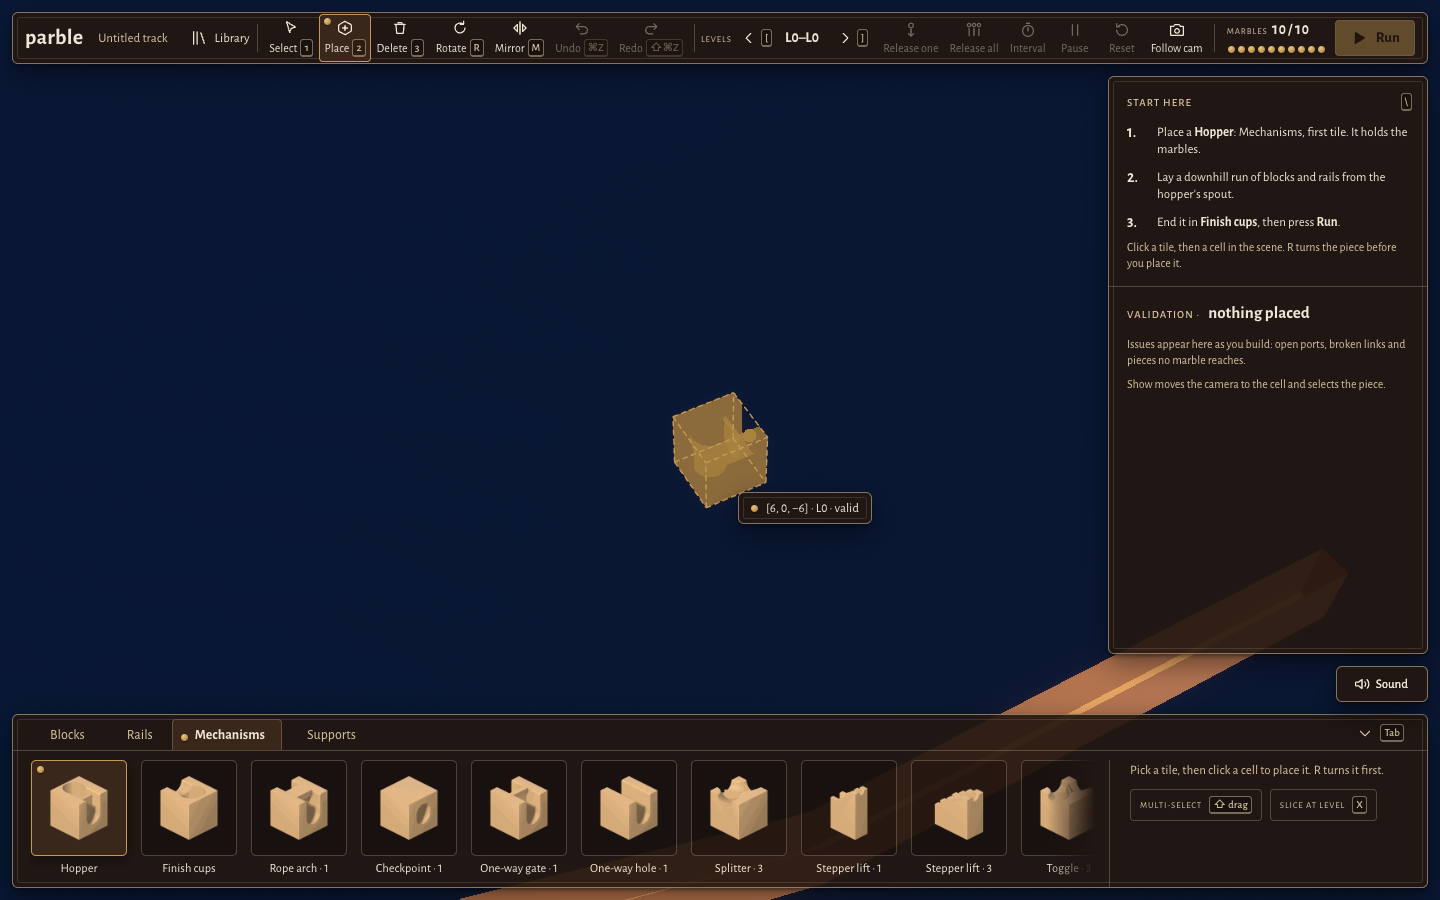
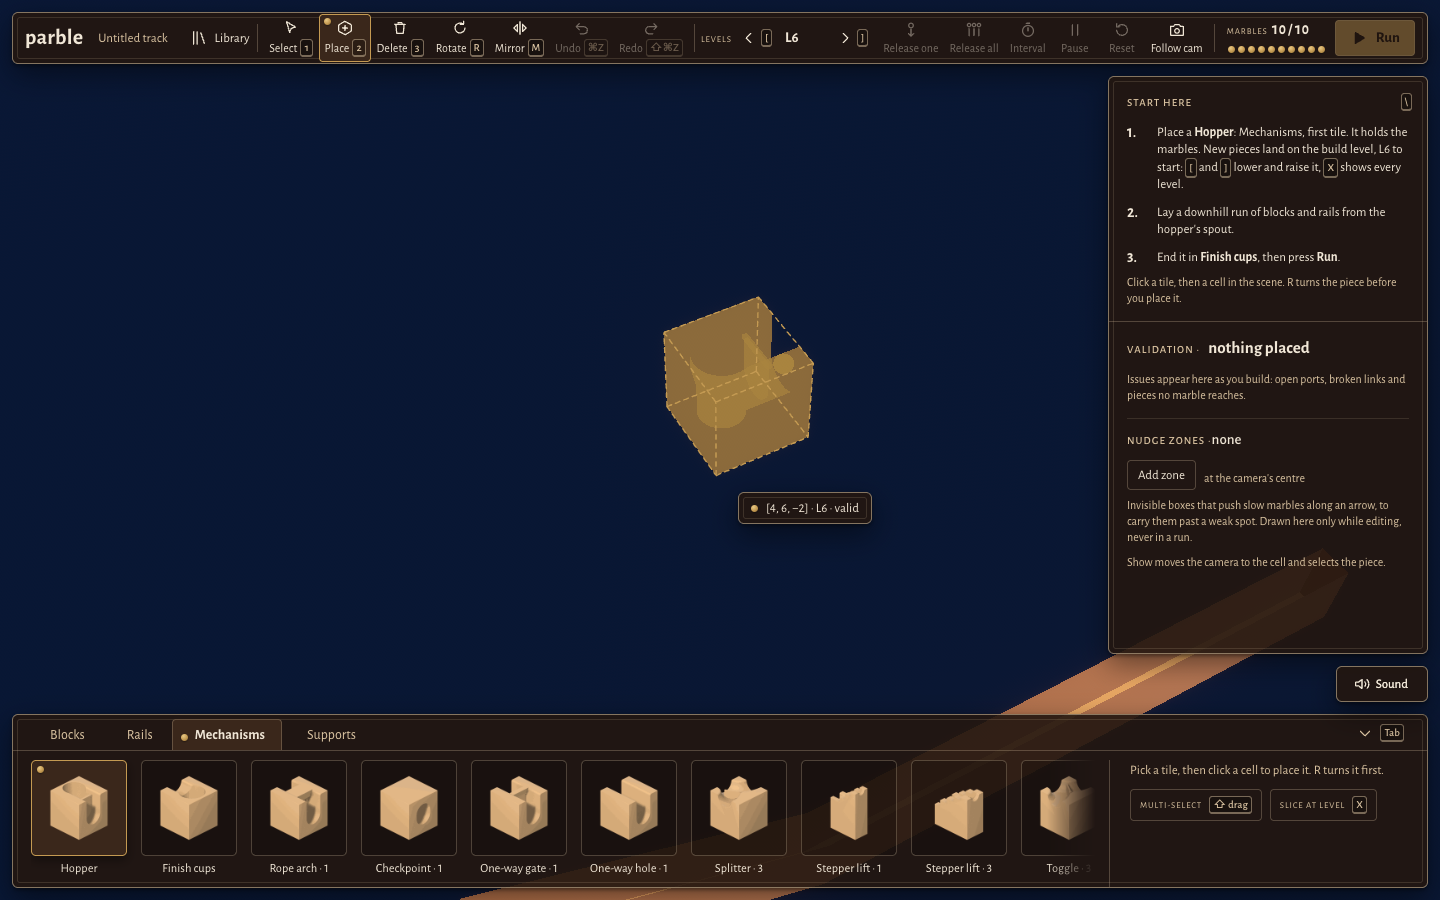
Editor: an empty board starts building at L6 so the hopper has levels to fall through (it started on L0 with no way down); ] raises the build level past the top piece, up to L15, and from all levels goes one above the top; Start here says so. Docs reword the Back-cache note (the Safari cause is infe

Changed region(s): [[0.7812, 0.1556, 0.9688, 0.4978], [0.4375, 0.3111, 0.5625, 0.56], [0.7812, 0.5289, 0.9688, 0.6533]]

diff --git a/web/ui/src/editor/model.ts b/web/ui/src/editor/model.ts
@@ -401,16 +401,23 @@ export function checkReleaseText(r: CheckRelease): string {
   return `${mode} · ${queue} · seed ${r.seed}`;
 }
 
-/** The stepper's value: "L0–L4" for all levels, "≤ L2" when sliced. */
+/** The highest level `]` reaches: the slice is also the ground plane new pieces land on. */
+export const BUILD_LEVEL_MAX = 15;
+/** An empty board starts building here, so the hopper has levels to fall through below it
+ *  (the showcase's hopper stands at L7). */
+export const START_LEVEL = 6;
+
+/** The stepper's value: "L0–L4" for all levels, "≤ L2" when sliced, "L6" above every piece. */
 export function levelLabel(slice: number | null, maxLevel: number): string {
-  return slice === null ? `L0–L${Math.max(maxLevel, 0)}` : `≤ L${slice}`;
+  if (slice === null) return `L0–L${Math.max(maxLevel, 0)}`;
+  return slice > maxLevel ? `L${slice}` : `≤ L${slice}`;
 }
 
 /** `[` one level down from all or the slice; never below 0. */
 export const sliceDown = (slice: number | null, maxLevel: number): number => Math.max((slice ?? maxLevel + 1) - 1, 0);
-/** `]` one level up; past the top shows all levels. */
-export const sliceUp = (slice: number | null, maxLevel: number): number | null =>
-  slice === null || slice + 1 > maxLevel ? null : slice + 1;
+/** `]` one level up, from all to one above the top piece, at most [`BUILD_LEVEL_MAX`]. X shows all. */
+export const sliceUp = (slice: number | null, maxLevel: number): number =>
+  Math.min(slice === null ? Math.max(maxLevel, -1) + 1 : slice + 1, BUILD_LEVEL_MAX);
 
 /** Ports as "In N · Out E, W". */
 export function portsText(ports: { face: Face; flow: string }[]): string {

diff --git a/web/ui/src/editor/overlay.ts b/web/ui/src/editor/overlay.ts
@@ -51,6 +51,7 @@ import {
   type Send,
   sliceDown,
   sliceUp,
+  START_LEVEL,
   strokeText,
   TICK_HZ,
   type Vec3i,
@@ -944,7 +945,7 @@ ${nzRow("Push", [
     }
     if (s.pieces === 0 && !deletedNote) {
       selSec.innerHTML = `<h2><span class="sc">Start here</span></h2>
-<ol class="steps"><li${s.hoppers ? ' class="done"' : ""}><span>Place a <b>Hopper</b>: Mechanisms, first tile. It holds the marbles.</span></li>
+<ol class="steps"><li${s.hoppers ? ' class="done"' : ""}><span>Place a <b>Hopper</b>: Mechanisms, first tile. It holds the marbles. New pieces land on the build level, L${START_LEVEL} to start: <kbd>[</kbd> and <kbd>]</kbd> lower and raise it, <kbd>X</kbd> shows every level.</span></li>
 <li><span>Lay a downhill run of blocks and rails from the hopper's spout.</span></li>
 <li${s.finishes ? ' class="done"' : ""}><span>End it in <b>Finish cups</b>, then press <b>Run</b>.</span></li></ol>
 <p class="note">Click a tile, then a cell in the scene. R turns the piece before you place it.</p>`;
@@ -1320,6 +1321,7 @@ ${groupActs}
       if (next.pieces === 0) {
         family = "mechanisms";
         pick("mech_hopper");
+        act({ op: "slice", level: START_LEVEL });
       } else family = familyOf(next.brush.piece);
     }
     stepFly();

diff --git a/web/ui/test/editor-logic.test.ts b/web/ui/test/editor-logic.test.ts
@@ -30,6 +30,7 @@ import {
   runTime,
   sliceDown,
   sliceUp,
+  BUILD_LEVEL_MAX,
   strokeText,
   zoneOf,
 } from "../src/editor/model";
@@ -88,8 +89,12 @@ describe("editor model", () => {
     expect(sliceDown(null, 4)).toBe(4);
     expect(sliceDown(0, 4)).toBe(0);
     expect(sliceUp(3, 4)).toBe(4);
-    expect(sliceUp(4, 4)).toBeNull();
-    expect(sliceUp(null, 4)).toBeNull();
+    // Past the top piece `]` keeps raising the build level, from all to one above the top.
+    expect(sliceUp(4, 4)).toBe(5);
+    expect(sliceUp(null, 4)).toBe(5);
+    expect(sliceUp(null, 0)).toBe(1);
+    expect(sliceUp(BUILD_LEVEL_MAX, 4)).toBe(BUILD_LEVEL_MAX);
+    expect(levelLabel(6, 0)).toBe("L6");
   });
 
   it("formats ports, families, the ghost tip and run time", () => {

diff --git a/crates/parble-app/src/editor.rs b/crates/parble-app/src/editor.rs
@@ -58,6 +58,9 @@ pub use nudge::NudgeDiag;
 
 /// Largest `fill` (and `--editor-fill`).
 pub const MAX_FILL: u32 = 4_000;
+/// The highest level `]` slices to. The slice is also the ground plane new pieces land on, so
+/// past the top piece `]` raises the build level (web: `BUILD_LEVEL_MAX` in `web/ui/src/editor/model.ts`).
+pub const BUILD_LEVEL_MAX: i32 = 15;
 /// Collider rebuild time per frame. A rebuild stage that starts inside it always finishes, so a
 /// frame's rebuild is at most this plus one stage (gather, simplify, tag or install of one chunk).
 pub const COLLIDER_BUDGET_MS: f32 = 4.0;
@@ -2395,7 +2398,11 @@ fn key_actions(st: &EditState, k: &ButtonInput<KeyCode>, shift: bool) -> Vec<Act
                 level: Some((st.slice.unwrap_or(max_level + 1) - 1).max(0)),
             }),
             KeyCode::BracketRight => out.push(Action::Slice {
-                level: st.slice.map(|s| s + 1).filter(|&s| s <= max_level),
+                level: Some(
+                    st.slice
+                        .map_or(max_level + 1, |s| s + 1)
+                        .min(BUILD_LEVEL_MAX),
+                ),
             }),
             KeyCode::KeyX => out.push(Action::Slice { level: None }),
             KeyCode::Escape => out.push(Action::ClearSelection {}),

diff --git a/docs/agent-operability.md b/docs/agent-operability.md
@@ -27,7 +27,7 @@ parble can be launched, observed and stopped from a script, on native and on the
 | `--zones` (or `--zones=0\|1`) | `zones=1` | off | Start with the camera zone overlay on: every camera zone of the track (authored and piece hints) as a world-space wireframe, amber while idle, pale blue while the followed marble is inside and white for the zone playing, and the playing shot's target in magenta (a framing point or axis, an orbit centre, a fixed look point). `V` toggles it ([Camera controls](#camera-controls)). Gizmos only (`crates/parble-render/src/zone_overlay.rs`), so it cannot change a hash. |
 | `--time-scale <s>` (alias `--timescale`) | `time-scale=<s>` or `timescale=<s>` | `1` | Start at time scale `<s>`, one of `1`, `0.5`, `0.25` or `0.1` (any other value is refused). The sim step stays the fixed 240 Hz tick: the app feeds `<s>` times the frame's real time into the tick accumulator, so it runs fewer ticks per real second and the renderer interpolates between them. Trajectories and hashes depend only on the tick count, so they are unchanged. `,` and `.` change it ([Playback](#playback-pause-and-slow-motion)). |
 | `--paused` (or `--paused=0\|1`) | `paused=1` | off | Start paused: the sim holds at tick 0 until `P` resumes it or `N` steps it. `ready` still turns true ([State JSON](#state-json-and-windowparble)). |
-| (web only) | `title=<0\|1>` | title on a bare URL | The title screen (P5-T3). It shows only on a bare page load (no query at all) or with `title=1`. Any other query key, `mute=1` included, or `title=0` goes straight to the scene, so every switch here skips it. Its Build and Watch buttons navigate to `?scenario=editor` (with `marble=`/`marble-size=` from the marble picker) or `?scenario=showcase` (with `camera=` unless it is `director`), each with `quality=` set to the stored tier, and carry `mute=1` over. The settings (`parble.settings/1` in localStorage: the detected and chosen tier, the showcase camera and the marble pick) apply only through that URL, never to a direct scene URL. Every scene without the editor overlay has a Title button (`#parble-home`, first in the top-right files bar) that opens `?title=1`, carrying `mute=1`. When Back restores the title page from the back/forward cache (Safari keeps it; Chromium reloads it), the title fades back in instead of staying faded out over the bare default scene. `window.__parbleTitle` (while the title shows) has `state()`, `launchQuery("build"\|"watch")` and `ready`, a promise that settles after first-run quality detection. |
+| (web only) | `title=<0\|1>` | title on a bare URL | The title screen (P5-T3). It shows only on a bare page load (no query at all) or with `title=1`. Any other query key, `mute=1` included, or `title=0` goes straight to the scene, so every switch here skips it. Its Build and Watch buttons navigate to `?scenario=editor` (with `marble=`/`marble-size=` from the marble picker) or `?scenario=showcase` (with `camera=` unless it is `director`), each with `quality=` set to the stored tier, and carry `mute=1` over. The settings (`parble.settings/1` in localStorage: the detected and chosen tier, the showcase camera and the marble pick) apply only through that URL, never to a direct scene URL. Every scene without the editor overlay has a Title button (`#parble-home`, first in the top-right files bar) that opens `?title=1`, carrying `mute=1`. When Back restores the title page from the back/forward cache, the title fades back in instead of staying faded out over the bare default scene. `window.__parbleTitle` (while the title shows) has `state()`, `launchQuery("build"\|"watch")` and `ready`, a promise that settles after first-run quality detection. |
 | (web only) | `version-poll=<s>` | 180 | How often the page polls `version.json` for a newer build, in seconds (at least 1). It also checks on focus, when the tab shows again and when the browser comes back online. When the live id differs from the page's `window.__PARBLE_BUILD`, a "New version available" notice shows at the top centre, over the title screen too, with Reload and Later; while the editor has unsaved edits it says so and the button reads "Reload anyway" (`web/ui/src/version-check.ts`, `update-note.ts`). Each check dispatches a `parbleversioncheck` event on `window` with its outcome. `e2e/tests/version.spec.mjs` covers it. |
 | (web only) | `gpu_lose_ms=<ms>` | off | Test switch: destroys each WebGPU device the page creates, the rebuilt ones too, `<ms>` ms after creation, without the page's destroy marker, so it counts as a lost device. The app rebuilds its renderer after 3 losses and ends on the 4th within 30 s, so this tests the retry bound: `window.__parble.fatal` names the loss, with `recovery` saying the app gave up ([GPU device loss](#gpu-device-loss)). |
 | (web only) | `gpu_lose_once_ms=<ms>` | off | Test switch: loses only the first device still alive `<ms>` ms after its creation (a device the page destroys itself first, as the title's GPU check does, is skipped). The renderer recovers once: `gpuRecoveries` turns 1 and `fatal` stays unset. `window.__parbleLoseGpu()` loses every live device at once, for a loss mid-run on cue. |
@@ -258,7 +258,7 @@ Mouse and keys (click the canvas first):
 | `R`, `M`, `Tab` | Rotate and mirror (chiral pieces only) the brush in the place tool, the selection in the others, next palette piece. |
 | `Delete` or `Backspace`, `Esc` | Remove the selection, clear it. |
 | `Ctrl`/`Cmd` + `Z`, + `Shift` + `Z` or + `Y` | Undo, redo. |
-| `[`, `]`, `X` | Slice one level down, up, show all. |
+| `[`, `]`, `X` | Slice one level down, up, show all. The slice is also the ground plane new pieces land on, so past the top piece `]` keeps raising that build level, up to L15 (`BUILD_LEVEL_MAX`); from all levels it goes one above the top piece. The web overlay starts an empty board at L6 (`START_LEVEL` in `web/ui/src/editor/model.ts`) so the hopper has room to fall. |
 
 Picking walks the camera ray through the occupied cells, skipping pieces above the slice, and otherwise lands on the ground plane at the slice level. The place target is the empty cell in front of the hit face, or the ground cell. The ghost is the brush there, green when `Editor::check` accepts the placement and red when not, with one dot per port: green when a mating port across links, amber when nothing is across, red for a fault.
 
